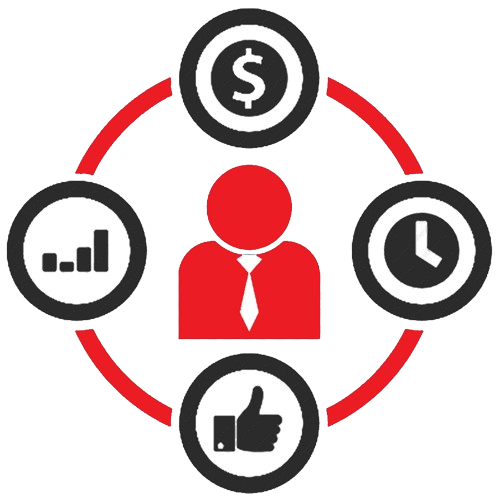
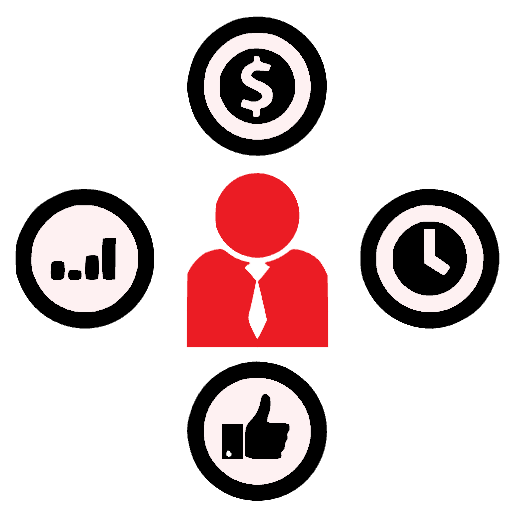
animacao imagem management

Changed region(s): [[0.0, 0.0, 0.99, 0.99]]

diff --git a/src/css/landing.css b/src/css/landing.css
@@ -49,8 +49,8 @@
         display: flex;
         align-items: center;
         justify-content: space-around;
-        img {
-            animation: Float 3s infinite alternate ease-in-out;
+        img {  
+            margin: 0;
             width: 25vw
         };
         div { 
@@ -74,6 +74,35 @@
                 }
             }
         };
+
+        .circle {
+            width: 18vw;
+            height: 18vw;
+            border-radius: 100%;
+            background: none;
+            border: 15px solid rgb(255, 255, 255);
+            position: absolute;
+            right: 9vw;
+            z-index: -1;
+          }
+          
+          .lines > li {
+            list-style: none;
+            height: 4px; /* line width on a circle border */
+            background-color: var(--background);
+            width: 280px; /* circle diameter */
+            
+            position: absolute;
+            left: -10px; /* shift lines to left by border width */
+            top: calc(50% - 2px); /* shift lines by half of line height */
+          }
+          
+          .lines > li:nth-child(1) {
+            transform: rotate(0deg);
+          }
+          .lines > li:nth-child(2) {
+            transform: rotate(90deg);
+        }
     }
     #about {
         display: flex;

diff --git a/src/pages/Landing.tsx b/src/pages/Landing.tsx
@@ -48,7 +48,16 @@ export default function Landing() {
             <h2>Um sistema completo de Help Desk que vai gerar mais eficiência para o seu Suporte de TI!</h2>
             <Link to="/start">Começe agora!</Link>
           </div>
-          <img src="./management.webp" />
+          <div className="circle">
+          <ul className="lines">
+     
+            <li></li>
+            <li></li>
+            <li></li>
+          </ul>
+      </div>
+      <img src="./management.svg" />
+
         </section>
         <section>
           <p style={{ fontSize:'1.7em', fontWeight: 'bold', textAlign:'justify', padding: '0px 90px' }}>O sistema de Help Desk da LizardHelp é projetado para <span className="marked">organizar</span>, <span className="marked">controlar</span> e <span className="marked">otimizar</span> processos, oferecendo uma centralização completa da comunicação com o cliente. Todos os recursos necessários estão disponíveis para uso ilimitado por agente, garantindo uma experiência fluida e eficiente.</p>
